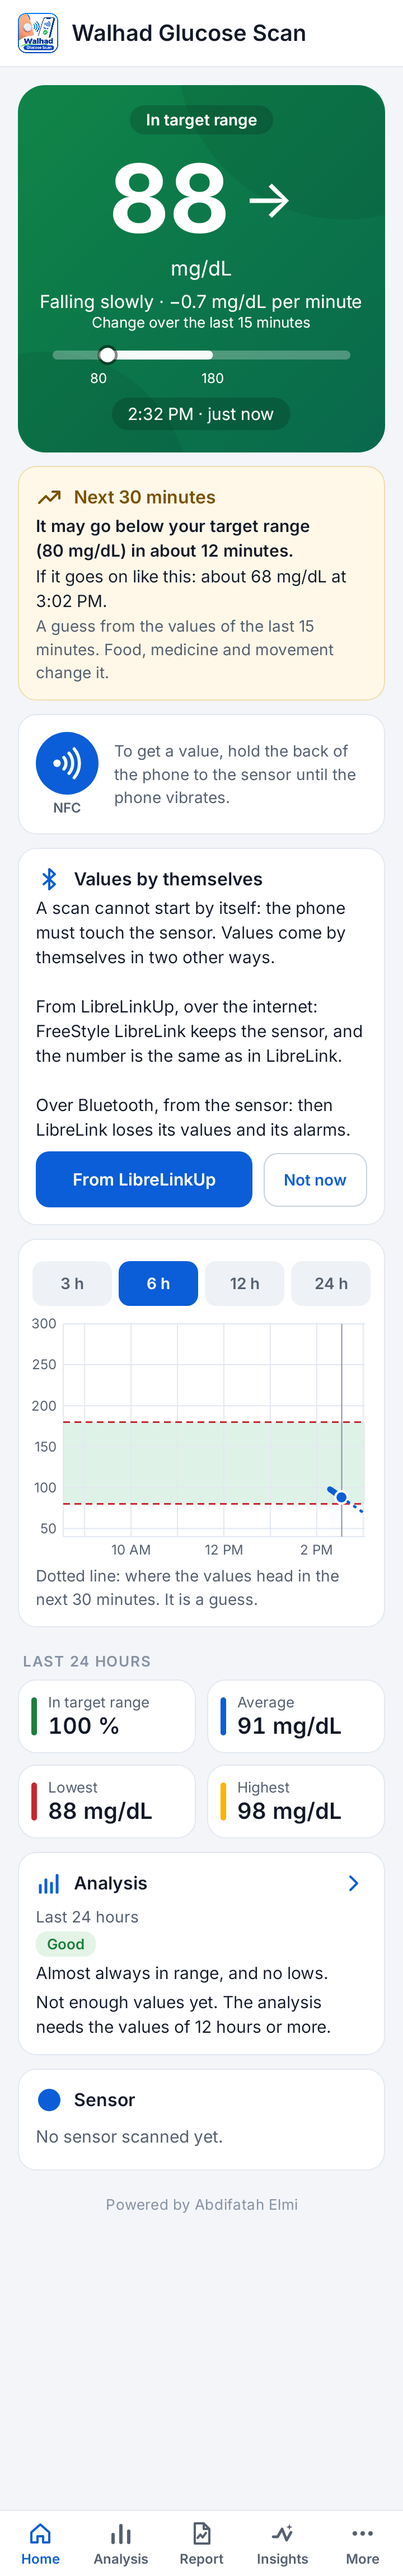
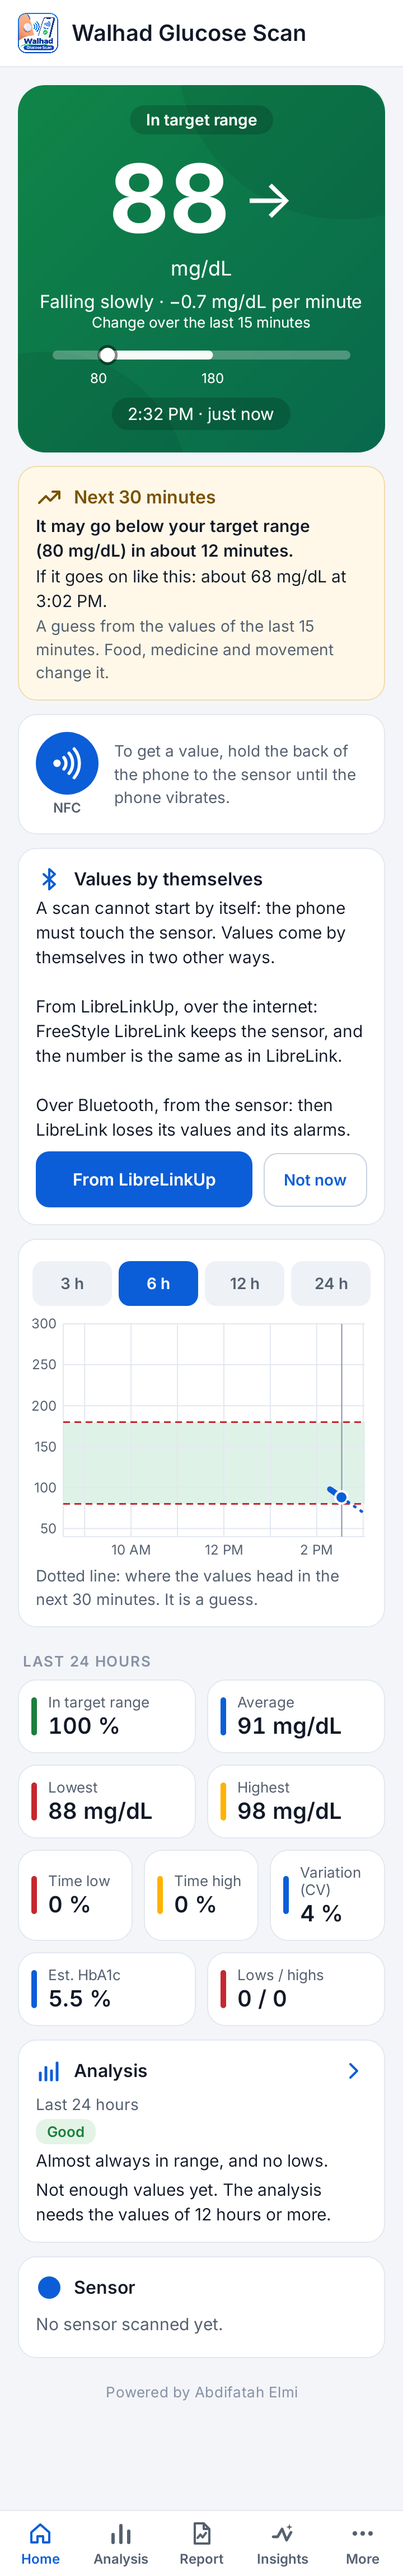
Version 5.0: nine numbers on the home screen, and the version read from the build
The home screen had four numbers for the last 24 hours. It has nine now:
in target range, average, lowest, highest, time low, time high, variation
(CV), estimated HbA1c, and how many lows and highs there were. Those are the
questions people ask when they look at the screen, so they are on it instead
of two taps away.

The about screen test read the version as words written into the test. It
reads it from the build now, so raising the version is one line again.

versionCode 11, versionName 5.0.0.

Changed region(s): [[0.0611, 0.715, 0.8861, 0.9015], [0.8556, 0.7772, 0.8861, 0.8083], [0.4889, 0.9015, 0.5194, 0.9326]]

diff --git a/app/src/main/kotlin/com/glucosescan/app/MainActivity.kt b/app/src/main/kotlin/com/glucosescan/app/MainActivity.kt
@@ -393,6 +393,19 @@ class MainActivity : Activity(), NfcAdapter.ReaderCallback {
         findViewById<TextView>(R.id.tileAverage).text = if (mean != null) FindingTexts.glucose(mean, unit) else none
         findViewById<TextView>(R.id.tileLowest).text = if (lowest != null) FindingTexts.glucose(lowest, unit) else none
         findViewById<TextView>(R.id.tileHighest).text = if (highest != null) FindingTexts.glucose(highest, unit) else none
+
+        // five more, so that the screen answers the questions people actually ask
+        val percents = stats.rangePercents
+        findViewById<TextView>(R.id.tileTimeLow).text = if (stats.hasValues) (percents[0] + percents[1]).toString() + " %" else none
+        findViewById<TextView>(R.id.tileTimeHigh).text = if (stats.hasValues) (percents[3] + percents[4]).toString() + " %" else none
+        val cv = stats.cv
+        findViewById<TextView>(R.id.tileVariation).text = if (cv != null) Math.round(cv).toString() + " %" else none
+        val gmi = stats.gmi
+        findViewById<TextView>(R.id.tileGmi).text = if (gmi != null) String.format(java.util.Locale.US, "%.1f %%", gmi) else none
+        // an event is 15 minutes or longer below or above the range
+        val span = AnalysisCalculator.span(values, from, to, settings.lowLimit, settings.highLimit)
+        val events = if (stats.hasValues) span.lows.size.toString() + " / " + span.highs.size.toString() else none
+        findViewById<TextView>(R.id.tileEvents).text = events
     }
 
     /** The analysis of the last days. It is counted anew every 5 minutes and after a scan. */

diff --git a/app/src/test/kotlin/com/glucosescan/app/ScreensTest.kt b/app/src/test/kotlin/com/glucosescan/app/ScreensTest.kt
@@ -26,6 +26,7 @@ import android.widget.ListView
 import android.widget.RadioButton
 import android.widget.Switch
 import android.widget.TextView
+import com.glucosescan.app.BuildConfig
 import com.glucosescan.app.core.Correction
 import com.glucosescan.app.core.Glucose
 import com.glucosescan.app.core.GlucoseUnit
@@ -787,7 +788,8 @@ class ScreensTest {
         settings.lastScanDetails = "time: 2026-01-01 12:00:00 UTC\noutcome: OK\nserial: 3MH001HM1LM\n"
         val activity = Robolectric.buildActivity(AboutActivity::class.java).setup().get()
         assertEquals("Walhad Glucose Scan", text(activity, R.id.appName))
-        assertEquals("Version 4.3.0", text(activity, R.id.version))
+        // read it from the build, so that raising the version does not break this test
+        assertEquals("Version " + BuildConfig.VERSION_NAME, text(activity, R.id.version))
         assertEquals("Powered by Abdifatah Elmi", text(activity, R.id.madeBy))
         assertTrue(logoIsShown(activity))
         // the only credit on the screen is the maker of this app
